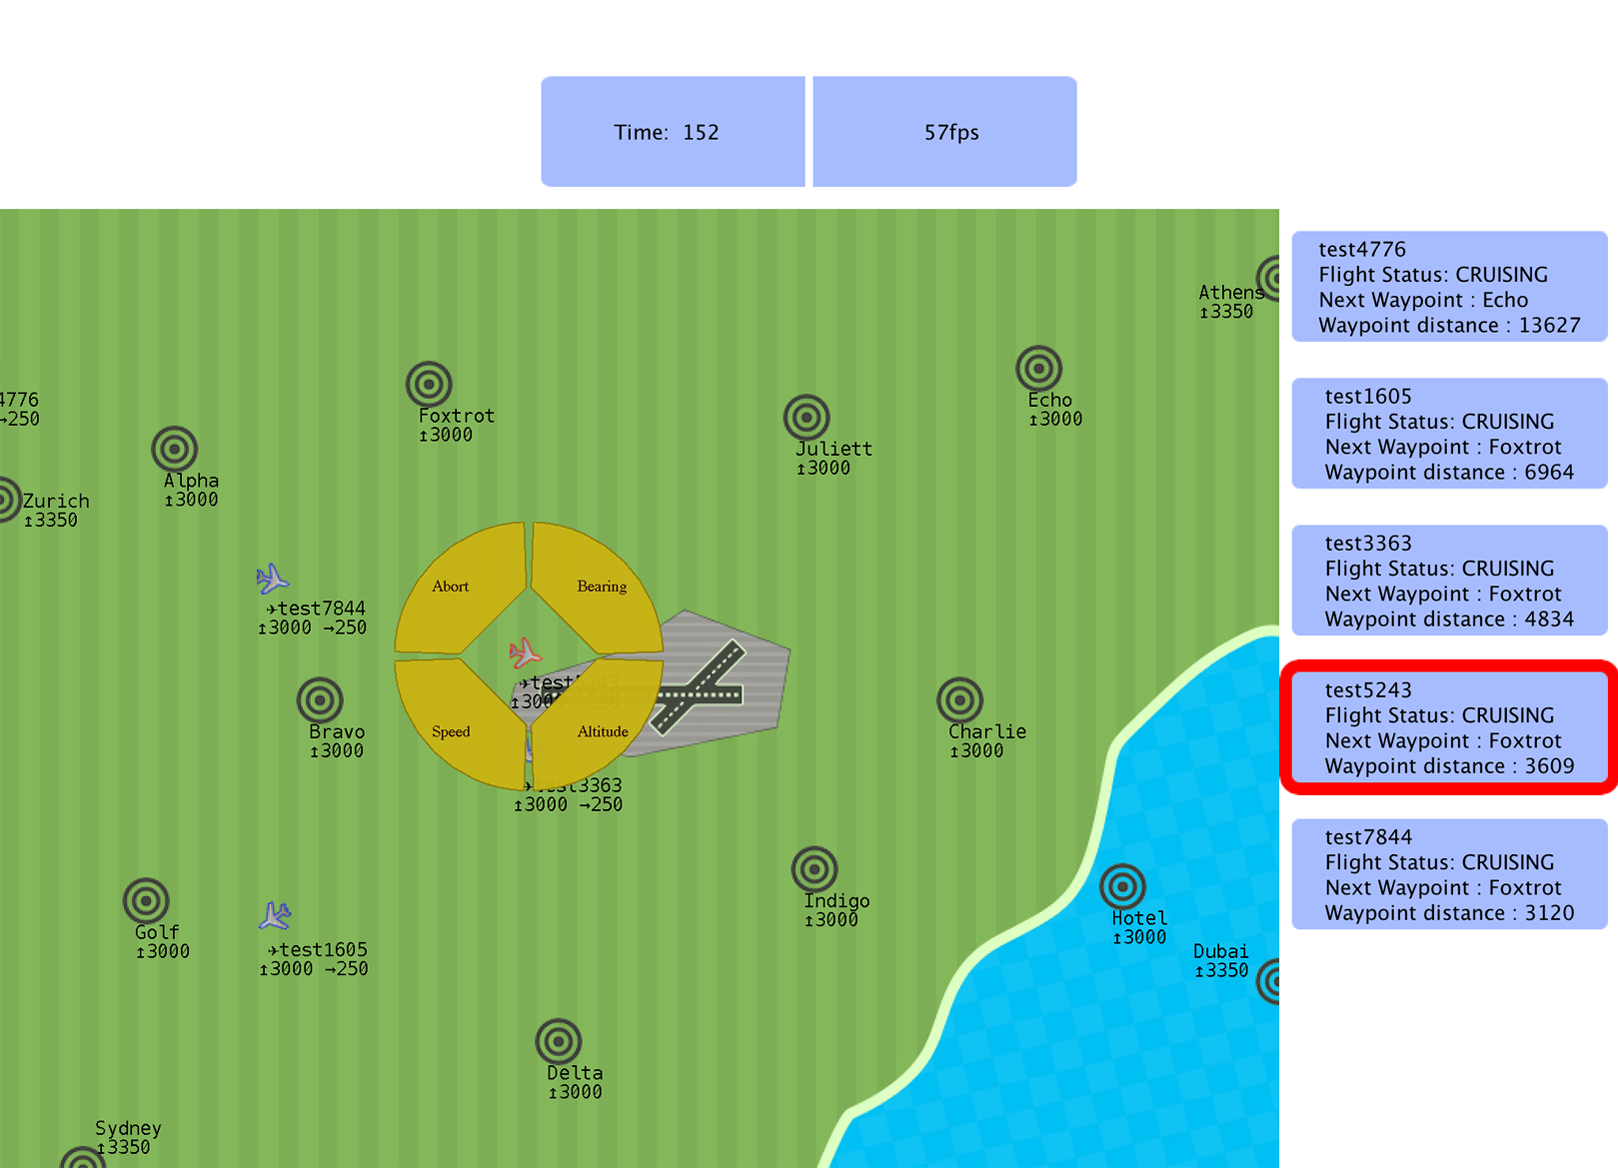
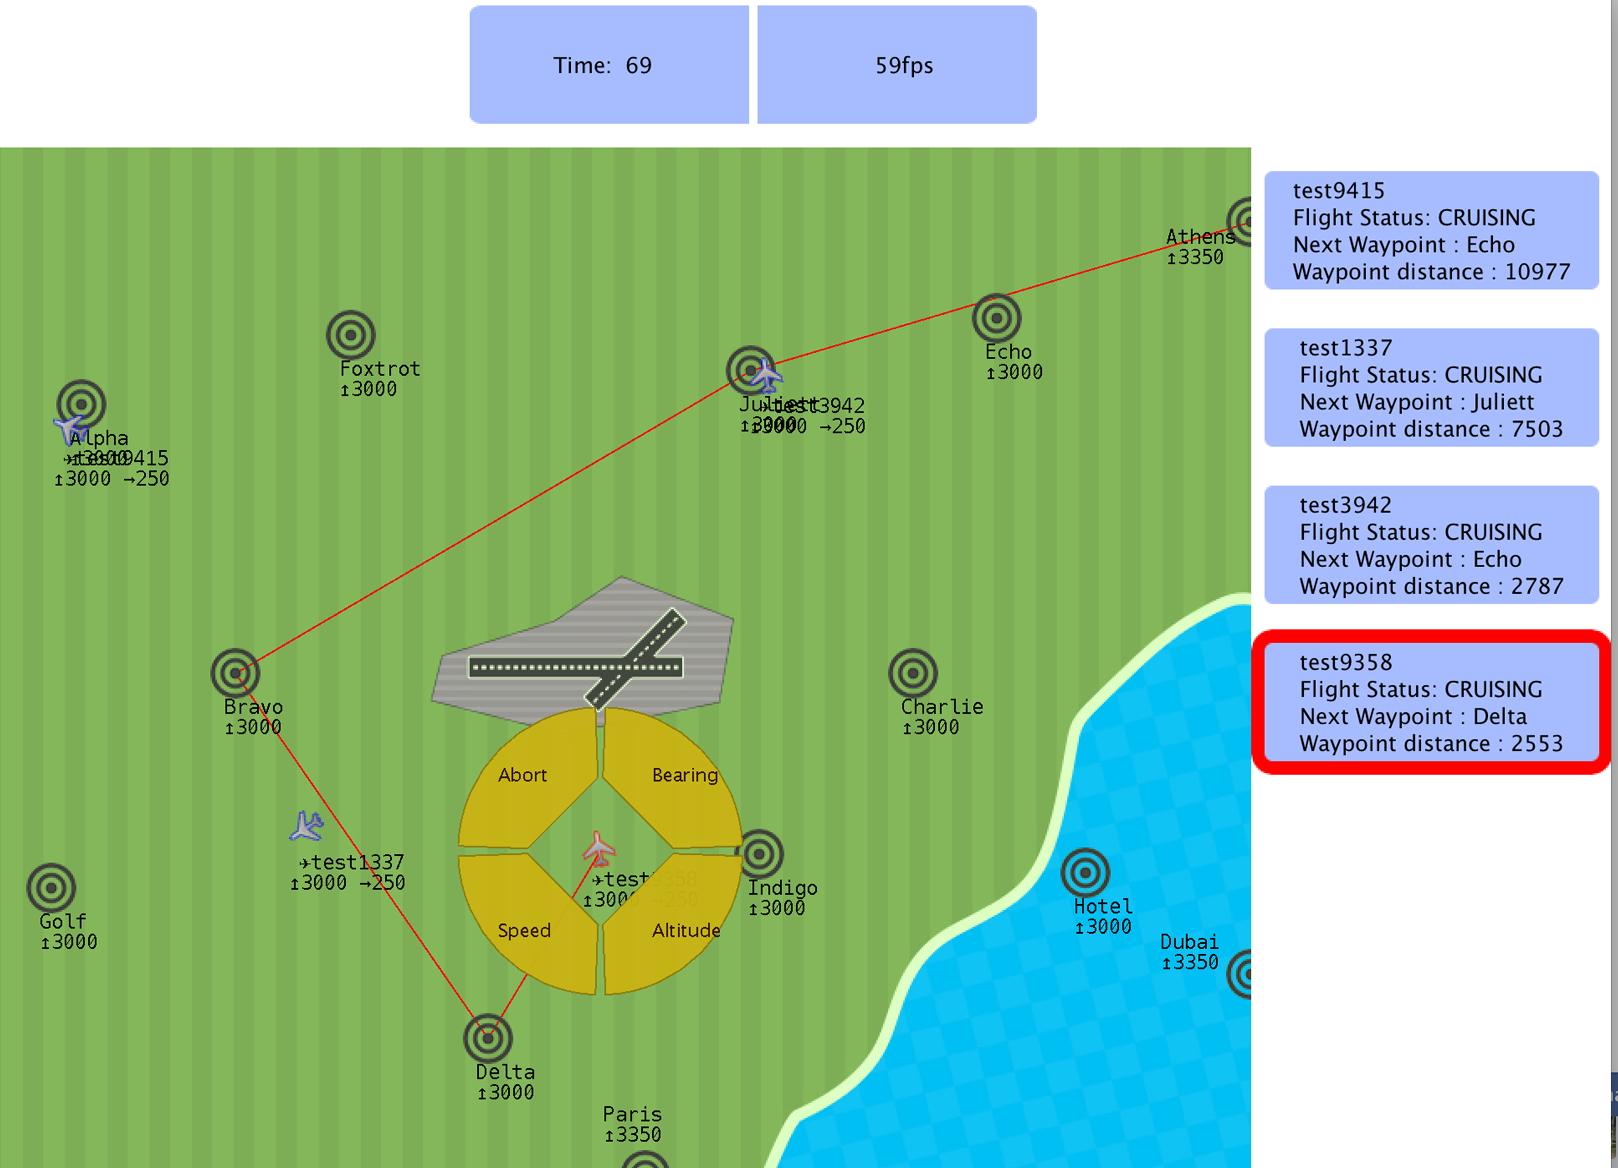
Updated to show flight plan lines

diff --git a/index.html b/index.html
@@ -99,7 +99,7 @@
               			  <img src="img/ingame_screenshot_small.png" alt="Active game with no flights selected" />
            		 </a>
                  <a href="img/ingame_screenshot.png" target="_blank">
-              			  <img src="img/ingame_screenshot_controls_small.png" alt="Active game with flight selected" />
+              			  <img src="img/ingame_screenshot_controls_small.png" alt="Active game with flight selected showing assigned flight plan" />
            		 </a>
                  <a href="img/ingame_radial_menu.png" target="_blank">
               			  <img src="img/ingame_radial_menu.png" alt="Radial menu" />
